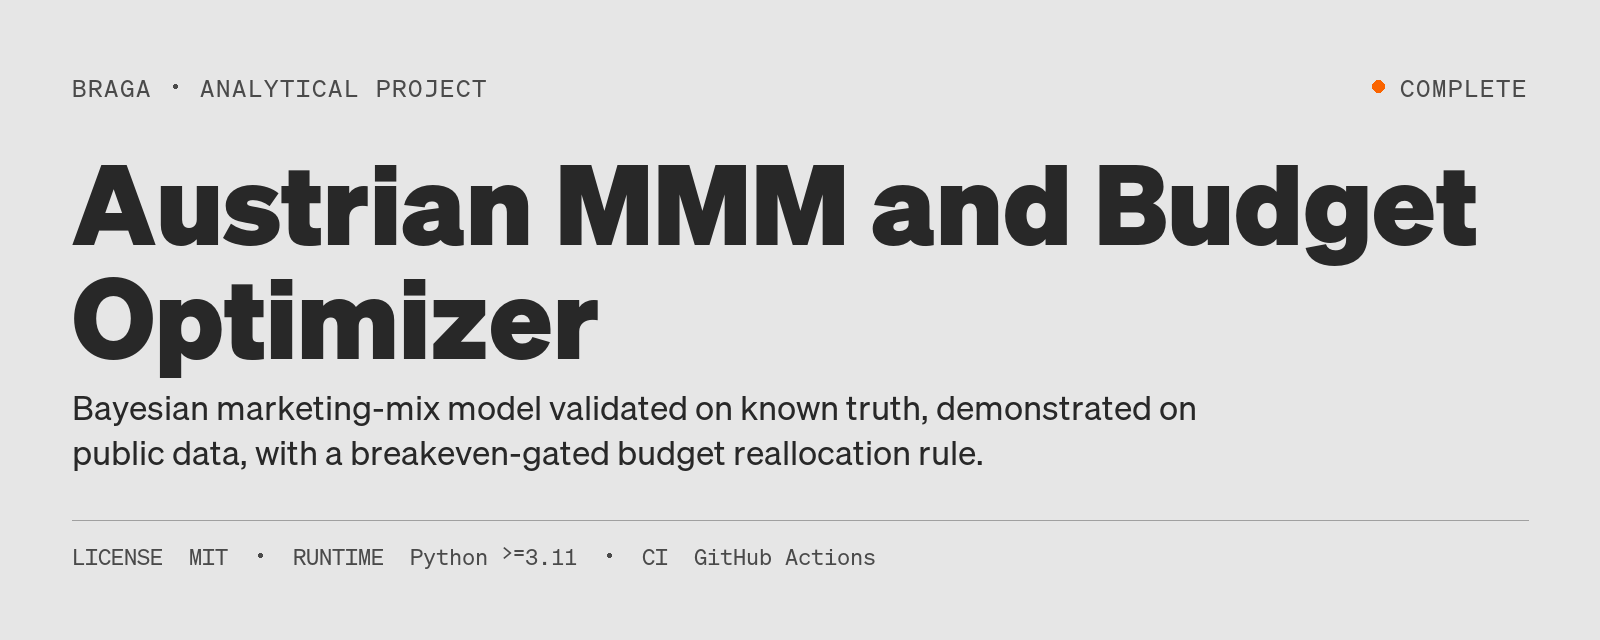
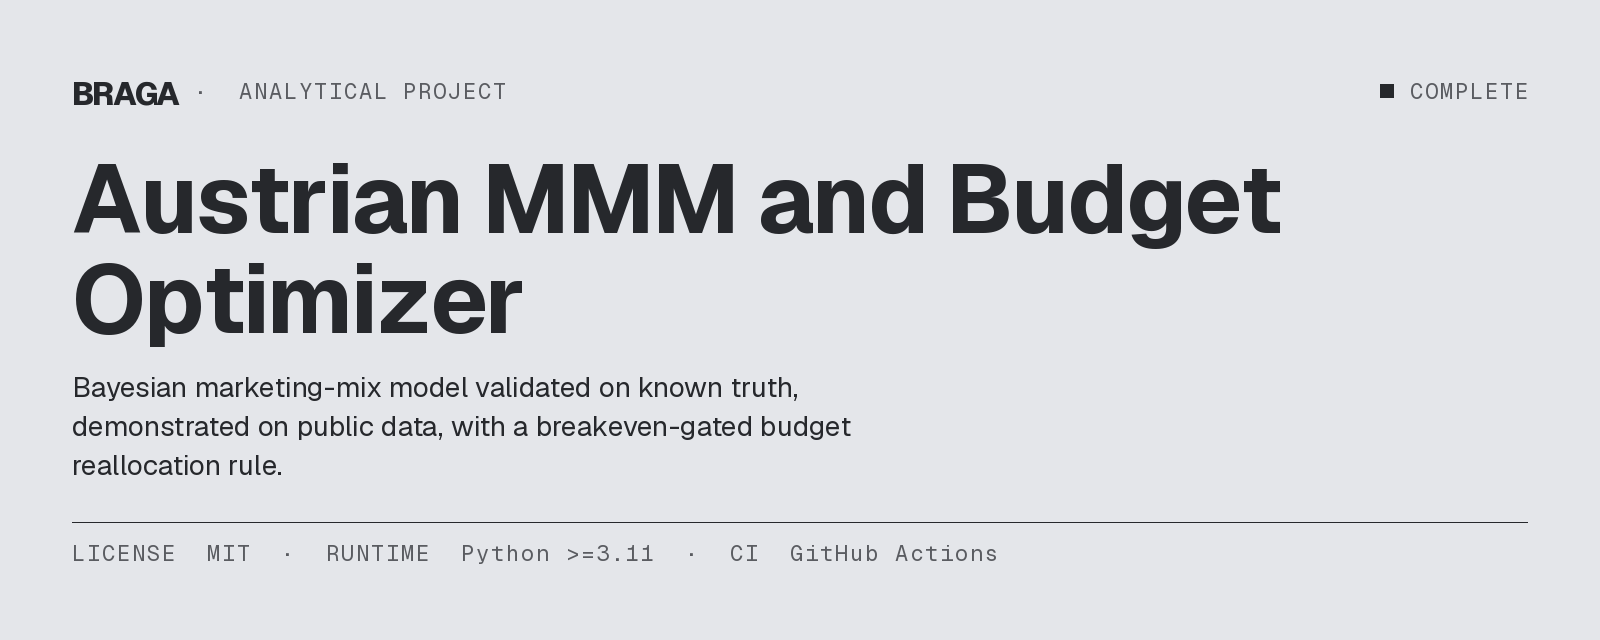
README on the Braga design system v2.1
Banner regenerated on design system v2.1 (BKribitz, status square, no
accent; D-051), shields badges in the neutrals (D-054), Mermaid diagrams
on the site's theme (D-052). Applied by braga-portfolio-docs
`python -m readme_quality fix`; the graph and the prose are unchanged.

Claude-Session: https://claude.ai/code/session_017JXfGqfFadubVauUqq2nZv

diff --git a/README.md b/README.md
@@ -2,10 +2,10 @@
 
 ![Austrian MMM and Budget Optimizer: Bayesian marketing-mix model validated on known truth, demonstrated on public data, with a breakeven-gated budget reallocation rule.](docs/assets/hero.png)
 
-[![License: MIT](https://img.shields.io/badge/license-MIT-lightgrey.svg)](LICENSE)
-[![Python](https://img.shields.io/badge/python-uv-blue.svg)](pyproject.toml)
-[![CI](https://img.shields.io/github/check-runs/RafaelBraga-Kribitz/austrian-mmm-budget-optimizer/main?label=CI)](https://github.com/RafaelBraga-Kribitz/austrian-mmm-budget-optimizer/actions)
-[![Status: Complete](https://img.shields.io/badge/status-Complete-brightgreen)](#status)
+[![License: MIT](https://img.shields.io/badge/license-MIT-5A5C61?labelColor=26282C)](LICENSE)
+[![Python](https://img.shields.io/badge/python-uv-5A5C61?labelColor=26282C)](pyproject.toml)
+[![CI](https://img.shields.io/github/check-runs/RafaelBraga-Kribitz/austrian-mmm-budget-optimizer/main?label=CI&color=5A5C61&labelColor=26282C)](https://github.com/RafaelBraga-Kribitz/austrian-mmm-budget-optimizer/actions)
+[![Status: Complete](https://img.shields.io/badge/status-Complete-5A5C61?labelColor=26282C)](#status)
 
 **Status:** Complete
 
@@ -144,6 +144,33 @@ Holdout MAPE and interval coverage against two baselines are in Results. Sampler
 ## Architecture
 
 ```mermaid
+%%{init: {
+  "theme": "base",
+  "fontFamily": "BKribitz, system-ui, -apple-system, Segoe UI, Helvetica, Arial, sans-serif",
+  "themeVariables": {
+    "background": "#E4E6EA",
+    "primaryColor": "#DCDEE2",
+    "primaryTextColor": "#26282C",
+    "primaryBorderColor": "#26282C",
+    "secondaryColor": "#E4E6EA",
+    "secondaryTextColor": "#26282C",
+    "secondaryBorderColor": "#5A5C61",
+    "tertiaryColor": "#E4E6EA",
+    "tertiaryTextColor": "#26282C",
+    "tertiaryBorderColor": "#C2C4CA",
+    "lineColor": "#5A5C61",
+    "textColor": "#26282C",
+    "mainBkg": "#DCDEE2",
+    "nodeBorder": "#26282C",
+    "clusterBkg": "#E4E6EA",
+    "clusterBorder": "#C2C4CA",
+    "edgeLabelBackground": "#E4E6EA",
+    "titleColor": "#26282C",
+    "fontFamily": "BKribitz, system-ui, -apple-system, Segoe UI, Helvetica, Arial, sans-serif",
+    "fontSize": "14px"
+  },
+  "flowchart": { "curve": "linear", "htmlLabels": true, "padding": 8 }
+}}%%
 flowchart TD
   P["Layer P: recover known truth"] --> R["Layer R: fit on public demo"]
   R --> D["Layer D: reallocate under the rule"]
